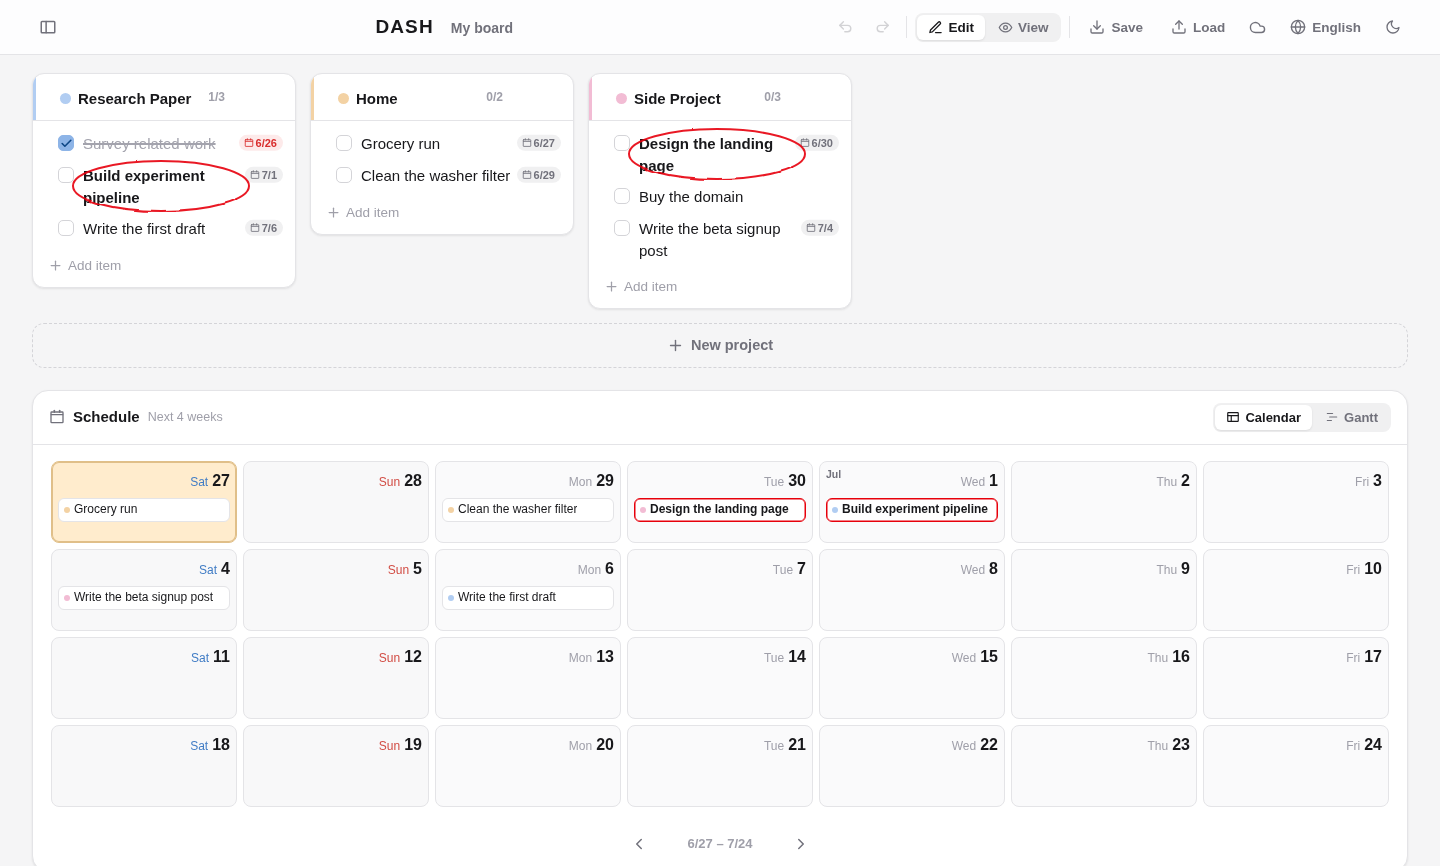
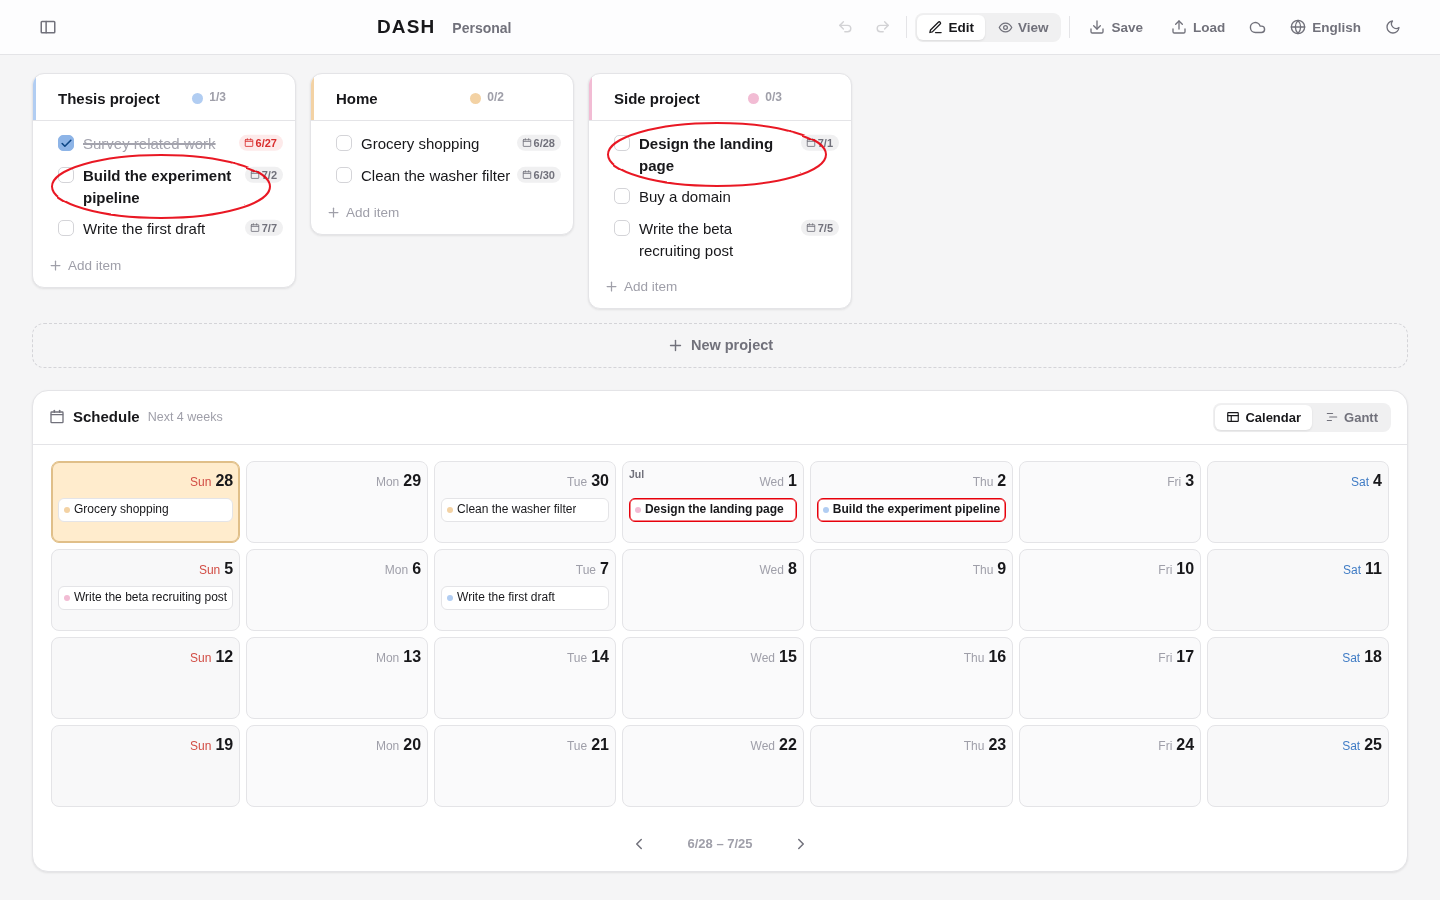
Refine grading circle, flush titles, add pop/slide animations
- TodoItem: grow the highlight "grading" ellipse with text height so it
  encloses wrapped multi-line items instead of cutting through them
- ProjectCard: move the color dot after the title so the title sits flush
  left next to the drag handle
- Pop animation on project/item create & delete (suppressed during drag)
- Slide the calendar/Gantt left/right when paging dates
- README: move Getting started right after Features; refresh hero screenshot

diff --git a/src/lib/components/Timeline.svelte b/src/lib/components/Timeline.svelte
@@ -1,4 +1,5 @@
 <script>
+  import { fly } from 'svelte/transition'
   import Icon from './Icon.svelte'
   import CalendarView from './CalendarView.svelte'
   import GanttView from './GanttView.svelte'
@@ -27,7 +28,21 @@
   // date navigation: page the timeline window back/forward by a week
   const STEP = 7
   let offsetDays = $state(0)
+  let dir = $state(1) // slide direction: +1 forward (next), -1 backward (prev)
+  let navigated = $state(false) // skip the slide on first render
   const spanDays = $derived(ui.timelineView === 'calendar' ? 28 : 14)
+
+  function step(by) {
+    dir = by > 0 ? 1 : -1
+    navigated = true
+    offsetDays += by
+  }
+  function reset() {
+    if (offsetDays === 0) return
+    dir = offsetDays > 0 ? -1 : 1
+    navigated = true
+    offsetDays = 0
+  }
   const from = $derived(addDays(new Date(), offsetDays))
   const rangeLabel = $derived(
     `${formatShort(toISODate(from))} – ${formatShort(toISODate(addDays(from, spanDays - 1)))}`
@@ -59,26 +74,33 @@
   </header>
 
   <div class="tl-body">
-    {#if ui.timelineView === 'calendar'}
-      <CalendarView items={dated} {from} />
-    {:else}
-      <GanttView projects={board.projects} {from} />
-    {/if}
+    {#key offsetDays}
+      <div
+        class="tl-slide"
+        in:fly={{ x: navigated ? dir * 44 : 0, duration: navigated ? 240 : 0 }}
+      >
+        {#if ui.timelineView === 'calendar'}
+          <CalendarView items={dated} {from} />
+        {:else}
+          <GanttView projects={board.projects} {from} />
+        {/if}
+      </div>
+    {/key}
   </div>
 
   <nav class="tl-nav" aria-label={t('schedule')}>
-    <button class="nav-arrow" onclick={() => (offsetDays -= STEP)} aria-label={t('prevPeriod')} title={t('prevPeriod')}>
+    <button class="nav-arrow" onclick={() => step(-STEP)} aria-label={t('prevPeriod')} title={t('prevPeriod')}>
       <Icon name="chevronLeft" size={18} />
     </button>
     <button
       class="nav-range"
       class:dim={offsetDays === 0}
-      onclick={() => (offsetDays = 0)}
+      onclick={reset}
       title={t('backToToday')}
     >
       {rangeLabel}
     </button>
-    <button class="nav-arrow" onclick={() => (offsetDays += STEP)} aria-label={t('nextPeriod')} title={t('nextPeriod')}>
+    <button class="nav-arrow" onclick={() => step(STEP)} aria-label={t('nextPeriod')} title={t('nextPeriod')}>
       <Icon name="chevron" size={18} />
     </button>
   </nav>
@@ -146,6 +168,7 @@
 
   .tl-body {
     padding: 12px 16px 8px;
+    overflow: hidden;
   }
 
   .tl-nav {

diff --git a/src/lib/components/ProjectCard.svelte b/src/lib/components/ProjectCard.svelte
@@ -12,6 +12,7 @@
     setItems,
     PALETTE,
   } from '../store.svelte.js'
+  import { pop } from '../pop.js'
   import { t } from '../i18n.svelte.js'
 
   let { project, editing = true } = $props()
@@ -20,14 +21,18 @@
   let autofocusId = $state(null)
   let colorBtn = $state(null)
   let showColor = $state(false)
+  // suppress the pop while dragging (reorder adds/removes nodes too)
+  let dragging = $state(false)
 
   const done = $derived(project.items.filter((i) => i.status === 'done').length)
 
   function handleConsider(e) {
+    dragging = true
     setItems(project.id, e.detail.items)
   }
   function handleFinalize(e) {
     setItems(project.id, e.detail.items)
+    dragging = false
   }
 
   function add() {
@@ -43,14 +48,6 @@
         <Icon name="grip" size={16} />
       </span>
     {/if}
-    <button
-      class="color-dot"
-      bind:this={colorBtn}
-      onclick={() => editing && (showColor = !showColor)}
-      disabled={!editing}
-      title={t('changeColor')}
-      aria-label={t('projectColor')}
-    ></button>
 
     {#if editing}
       <input
@@ -63,6 +60,15 @@
     {:else}
       <h2 class="title">{project.title}</h2>
     {/if}
+
+    <button
+      class="color-dot"
+      bind:this={colorBtn}
+      onclick={() => editing && (showColor = !showColor)}
+      disabled={!editing}
+      title={t('changeColor')}
+      aria-label={t('projectColor')}
+    ></button>
 
     <span class="count" title={t('doneTotal')}>{done}/{project.items.length}</span>
 
@@ -97,7 +103,12 @@
     onfinalize={handleFinalize}
   >
     {#each project.items as item (item.id)}
-      <div class="item-wrap" animate:flip={{ duration: FLIP }}>
+      <div
+        class="item-wrap"
+        animate:flip={{ duration: FLIP }}
+        in:pop={{ disabled: dragging }}
+        out:pop={{ disabled: dragging }}
+      >
         <TodoItem
           pid={project.id}
           {item}
@@ -159,8 +170,8 @@
   .card-head {
     display: flex;
     align-items: center;
-    gap: 7px;
-    padding: 11px 10px 9px 13px;
+    gap: 6px;
+    padding: 11px 10px 9px 12px;
     border-bottom: 1px solid var(--border);
     position: relative;
   }
@@ -178,7 +189,7 @@
     display: flex;
     align-items: center;
     justify-content: center;
-    margin: 0 -3px 0 -6px;
+    margin: 0 -4px 0 -5px;
     color: var(--text-faint);
     cursor: grab;
     touch-action: none;

diff --git a/src/lib/components/TodoItem.svelte b/src/lib/components/TodoItem.svelte
@@ -15,8 +15,16 @@
   // measured text box → drives the 강조 circle size so it wraps (not covers) the words
   let textW = $state(0)
   let textH = $state(0)
-  const PAD_X = 12
-  const PAD_Y = 6
+  // base padding for a single line; grows with extra lines so the loop encloses
+  // multi-line text instead of cutting through it (an ellipse around a tall box
+  // needs to be much wider/taller than the box to contain its corners)
+  const ONE_LINE_H = 11 // ~ half the 15px·1.4 line box
+  function grade(w, h) {
+    const extra = Math.max(0, h / 2 - ONE_LINE_H)
+    const ox = 13 + extra * 2.0
+    const oy = 7 + extra * 0.55
+    return { ox, oy, w: w + ox * 2, h: h + oy * 2 }
+  }
 
   $effect(() => {
     if (autofocus && inputEl) {
@@ -87,19 +95,18 @@
       {/if}
 
       {#if item.status === 'highlight' && textW > 0}
-        {@const w = textW + PAD_X * 2}
-        {@const h = textH + PAD_Y * 2}
+        {@const g = grade(textW, textH)}
         <svg
           class="grade"
-          style="left:{-PAD_X}px; top:{-PAD_Y}px; width:{w}px; height:{h}px;"
-          viewBox="0 0 {w} {h}"
+          style="left:{-g.ox}px; top:{-g.oy}px; width:{g.w}px; height:{g.h}px;"
+          viewBox="0 0 {g.w} {g.h}"
           aria-hidden="true"
         >
           <ellipse
-            cx={w / 2}
-            cy={h / 2}
-            rx={w / 2 - 2}
-            ry={h / 2 - 2}
+            cx={g.w / 2}
+            cy={g.h / 2}
+            rx={g.w / 2 - 2}
+            ry={g.h / 2 - 2}
             filter="url(#pencil-rough)"
           />
         </svg>

diff --git a/src/lib/pop.js b/src/lib/pop.js
@@ -1,0 +1,15 @@
+import { cubicOut } from 'svelte/easing'
+
+// A small "pop" used when projects & items are created or deleted.
+// Pass { disabled: true } while drag-and-drop is in progress so reordering
+// (which also adds/removes nodes from the list) doesn't pop.
+export function pop(node, { disabled = false, duration = 180 } = {}) {
+  if (disabled) return { duration: 0 }
+  return {
+    duration,
+    css: (t) => {
+      const e = cubicOut(t)
+      return `transform: scale(${0.72 + 0.28 * e}); opacity: ${t}`
+    },
+  }
+}

diff --git a/src/lib/components/Board.svelte b/src/lib/components/Board.svelte
@@ -4,17 +4,22 @@
   import ProjectCard from './ProjectCard.svelte'
   import Icon from './Icon.svelte'
   import { board, addProject, setProjects } from '../store.svelte.js'
+  import { pop } from '../pop.js'
   import { t } from '../i18n.svelte.js'
 
   let { editing = true } = $props()
 
   const FLIP = 200
+  // suppress the pop while dragging (reorder adds/removes nodes too)
+  let dragging = $state(false)
 
   function handleConsider(e) {
+    dragging = true
     setProjects(e.detail.items)
   }
   function handleFinalize(e) {
     setProjects(e.detail.items)
+    dragging = false
   }
 </script>
 
@@ -32,7 +37,12 @@
     onfinalize={handleFinalize}
   >
     {#each board.projects as project (project.id)}
-      <div class="cell" animate:flip={{ duration: FLIP }}>
+      <div
+        class="cell"
+        animate:flip={{ duration: FLIP }}
+        in:pop={{ disabled: dragging }}
+        out:pop={{ disabled: dragging }}
+      >
         <ProjectCard {project} {editing} />
       </div>
     {/each}

diff --git a/README.md b/README.md
@@ -25,12 +25,6 @@ exported to / imported from a JSON file.
 - **Optional cross‑device sync** — connect a private GitHub Gist to keep all boards in sync across devices, auto‑pulling other devices' changes (no backend)
 - **Responsive · mobile · dark mode** — works on any screen
 
-## Tech stack
-
-[Svelte 5](https://svelte.dev) + [Vite](https://vitejs.dev), with drag‑and‑drop by
-[svelte-dnd-action](https://github.com/isaacHagoel/svelte-dnd-action). Runtime
-dependencies are kept to a minimum, so the bundle stays small (~40 KB gzipped).
-
 ## Getting started
 
 ```bash
@@ -44,6 +38,12 @@ Production build:
 npm run build    # outputs to dist/
 npm run preview  # preview the built output
 ```
+
+## Tech stack
+
+[Svelte 5](https://svelte.dev) + [Vite](https://vitejs.dev), with drag‑and‑drop by
+[svelte-dnd-action](https://github.com/isaacHagoel/svelte-dnd-action). Runtime
+dependencies are kept to a minimum, so the bundle stays small (~40 KB gzipped).
 
 ## Deployment
 